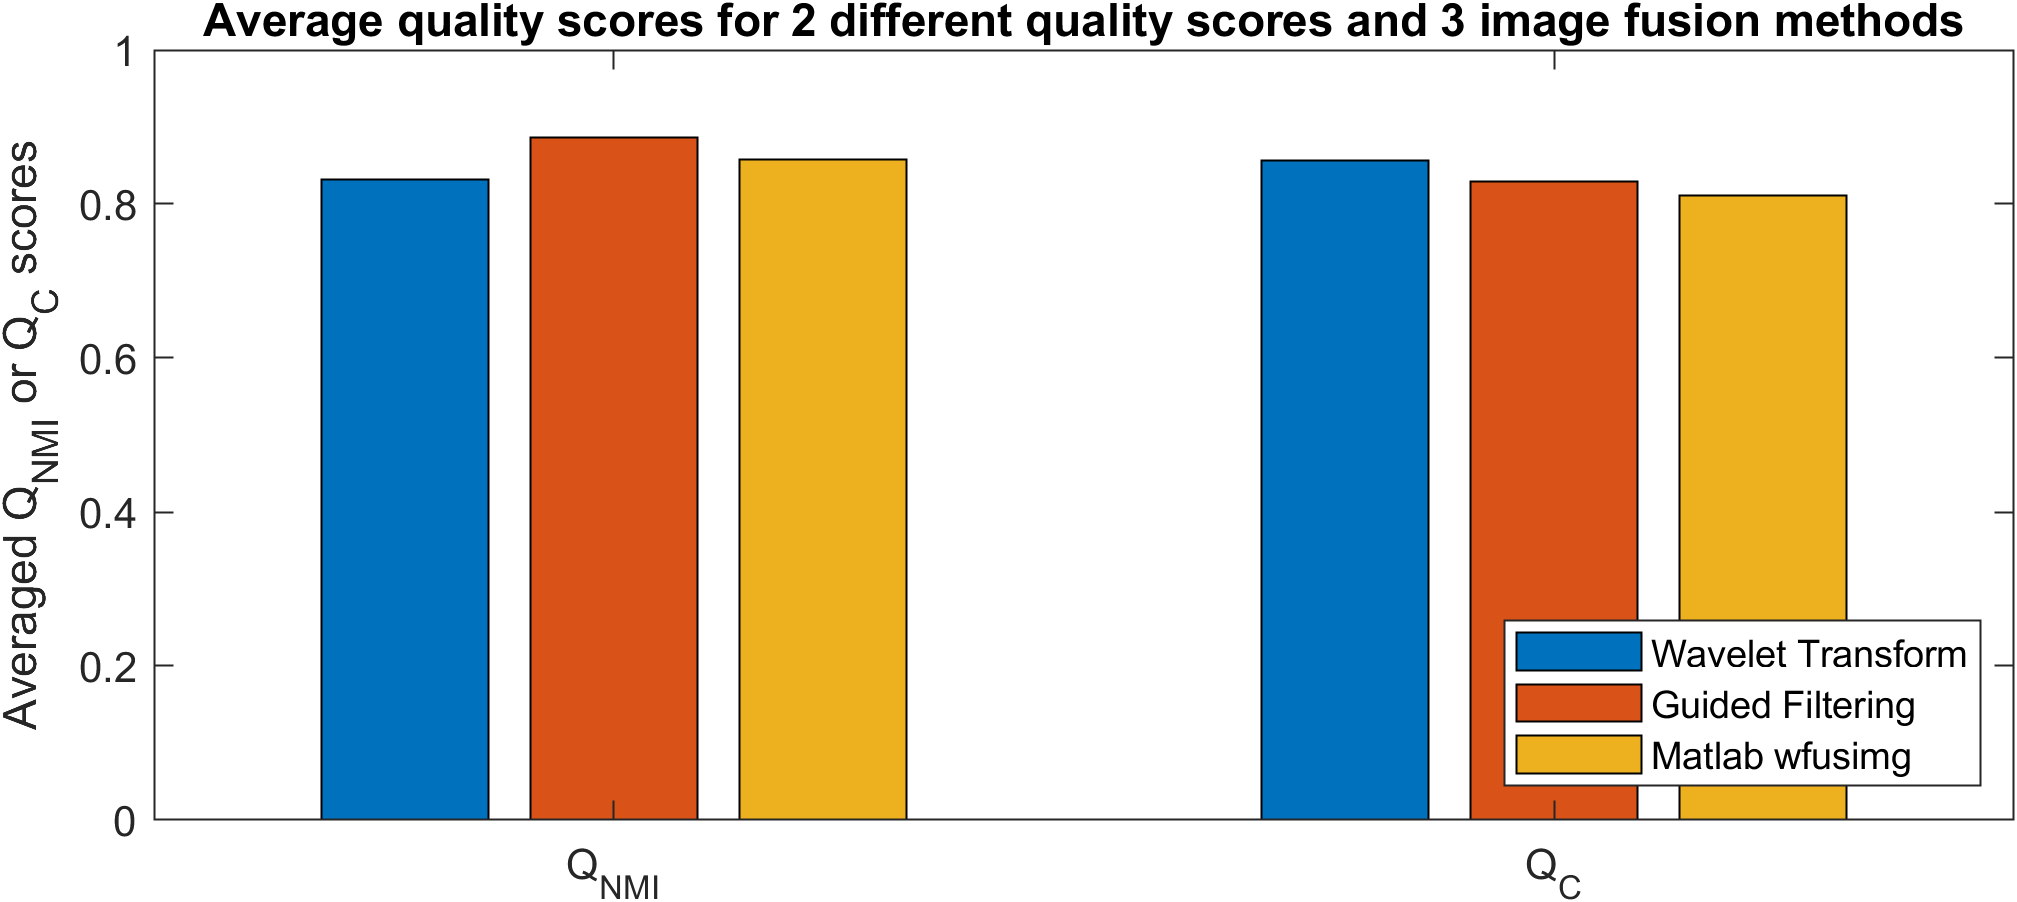
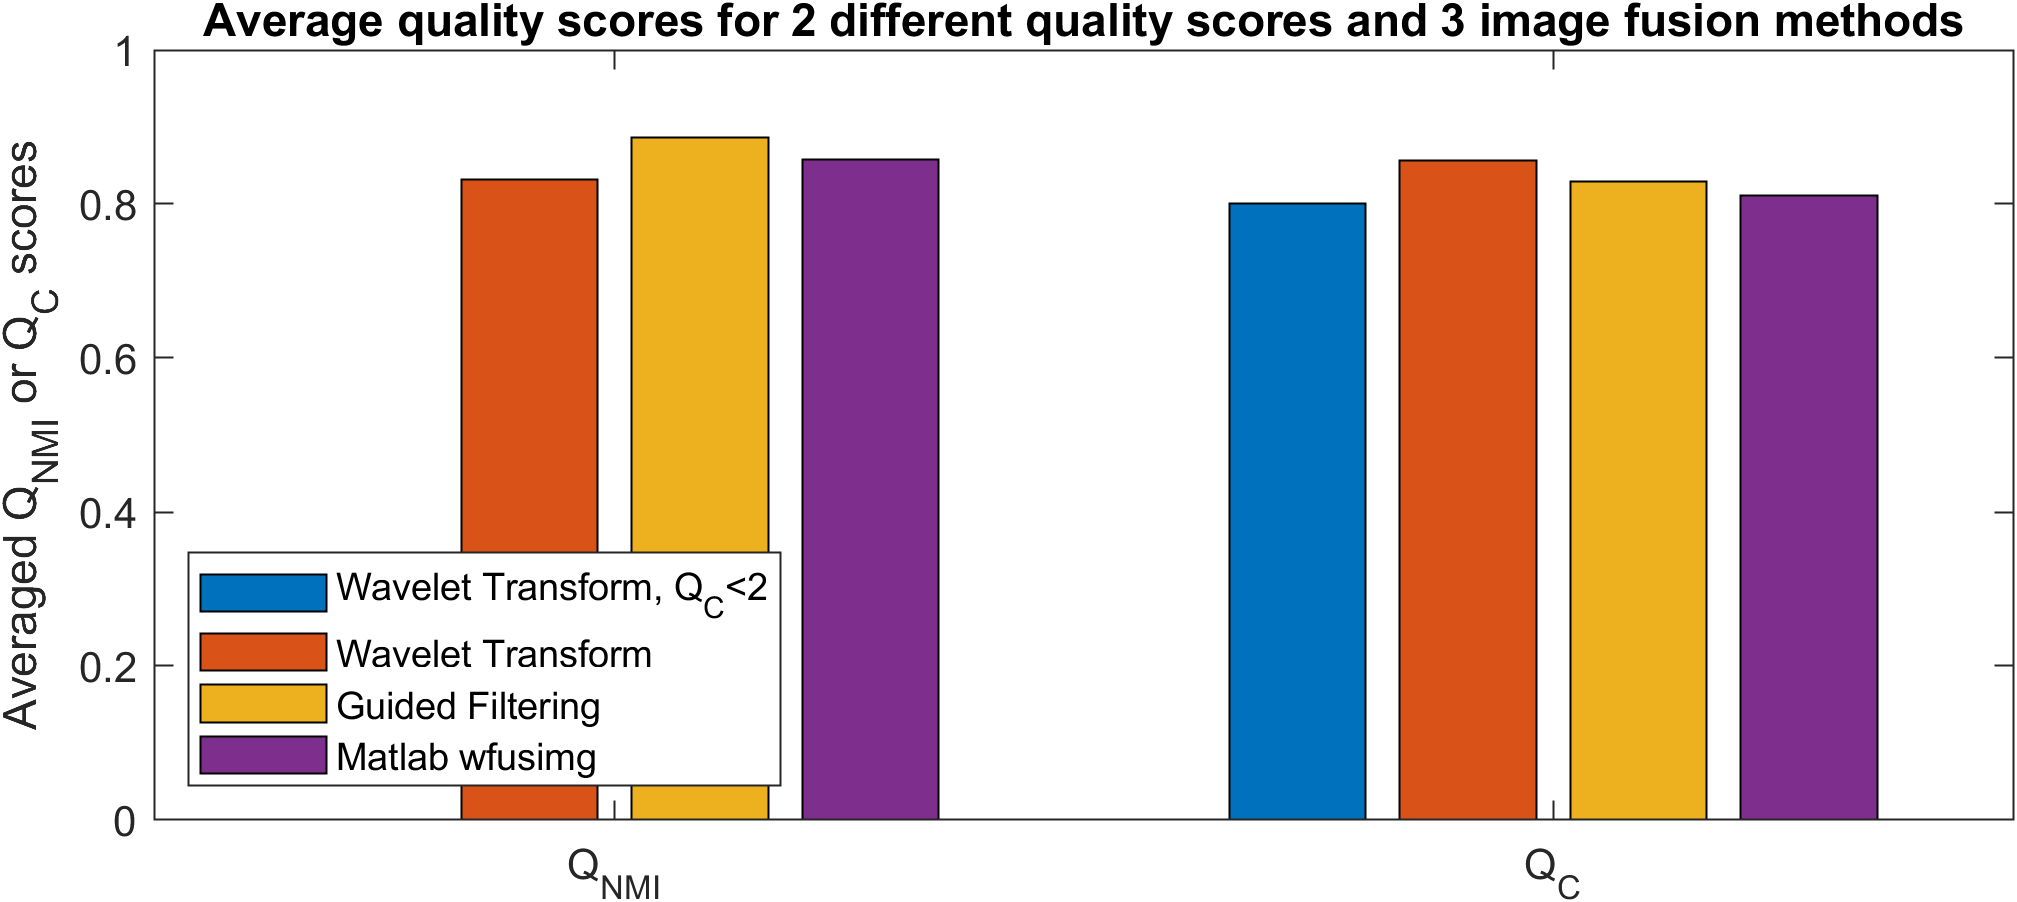
barchart means without extreme Qc

diff --git a/src/evaluate_metrics.m b/src/evaluate_metrics.m
@@ -97,13 +97,14 @@ exportgraphics(gcf,filename,'Resolution',400)
 exportgraphics(gcf,filename2, 'BackgroundColor','none')
 
 %%
-quality_nmi = [mean(Q_nmi_wt), mean(Q_nmi_gf), mean(Q_nmi_wfusimg)];
-quality_cvejic = [mean(Q_cvejic_wt), mean(Q_cvejic_gf), mean(Q_cvejic_wfusimg)];
+Q_cvejic_wt_filtered = Q_cvejic_wt(Q_cvejic_wt<2); %removes big outlier (4.3>>1)
+quality_nmi = [NaN, mean(Q_nmi_wt), mean(Q_nmi_gf), mean(Q_nmi_wfusimg)];
+quality_cvejic = [mean(Q_cvejic_wt_filtered), mean(Q_cvejic_wt), mean(Q_cvejic_gf), mean(Q_cvejic_wfusimg)];
 
 %figure('Position', [80 80 1400 500]);
 figure('Units', 'normalized', 'Position', [0.4, 0.4, 0.5, 0.35]);
 bar([quality_nmi ; quality_cvejic]);
-legend('Wavelet Transform', 'Guided Filtering', 'Matlab wfusimg','Location', 'SouthEast');
+legend('Wavelet Transform, Q_C<2', 'Wavelet Transform', 'Guided Filtering', 'Matlab wfusimg','Location', 'SouthWest');
 
 ylabel('Averaged Q_{NMI} or Q_{C} scores')
 title('Average quality scores for 2 different quality scores and 3 image fusion methods')
